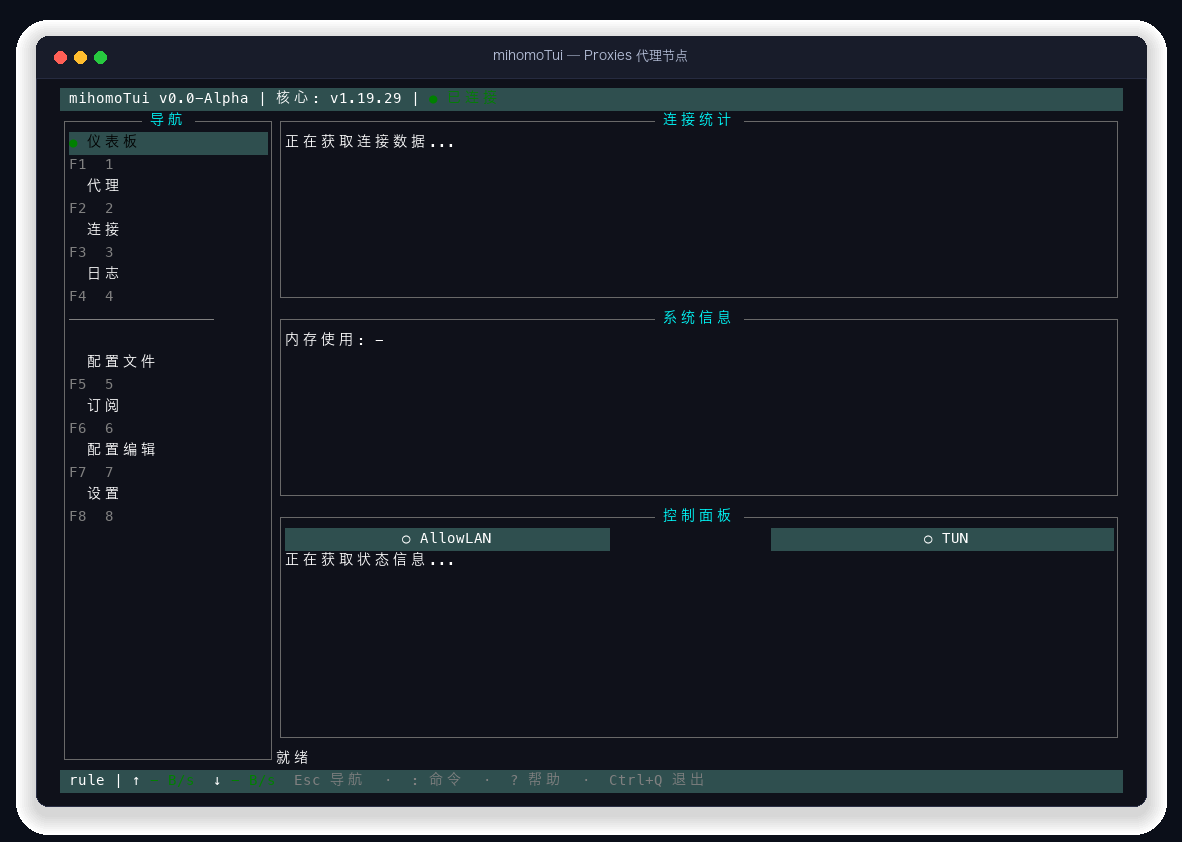
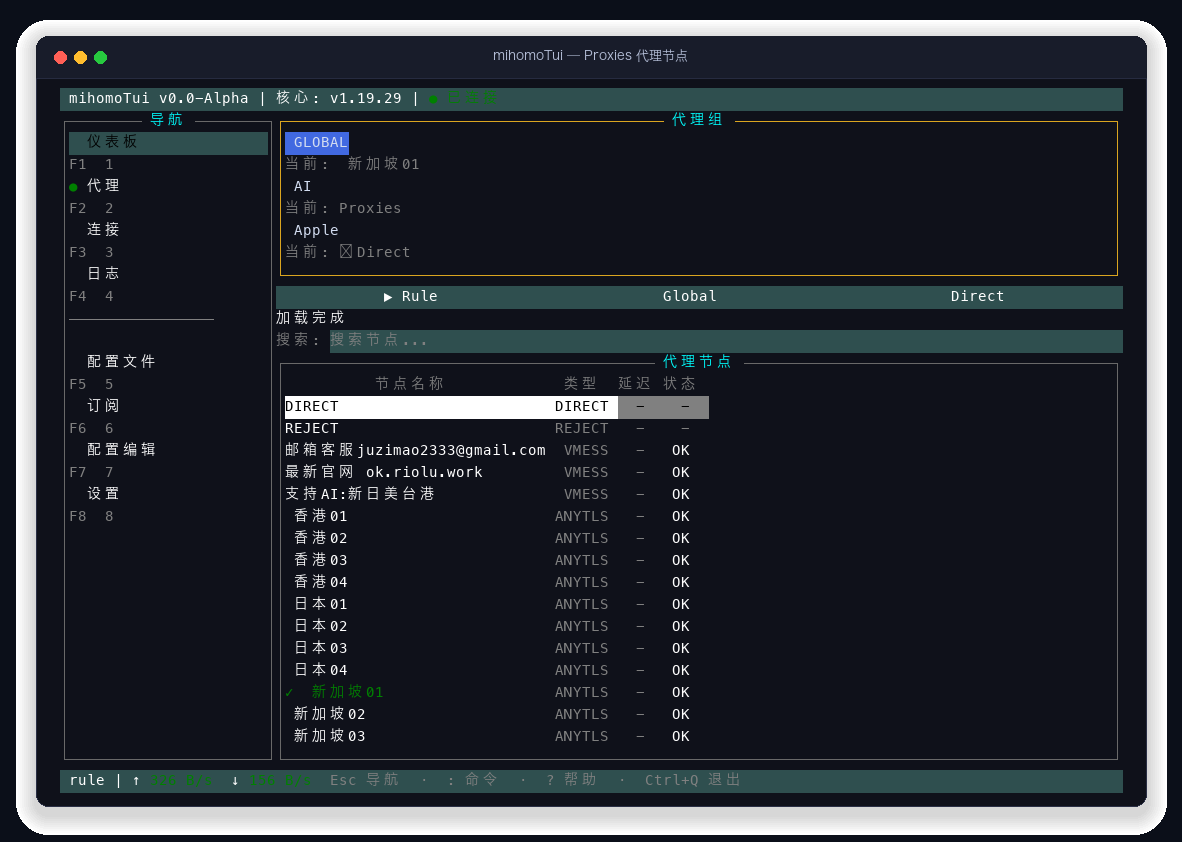
docs: update accurate high-DPI screenshots for all distinct pages and modals
- Re-generate 12 distinct terminal screenshot renders with correct subtab and modal states
- Update static hero banner and high-resolution picture assets
- Export SwitchTab helper in EditorPage for deterministic subtab testing

diff --git a/internal/screenshot_test.go b/internal/screenshot_test.go
@@ -76,7 +76,7 @@ func captureScreen(simScreen tcell.SimulationScreen, name, title string) ScreenE
 	}
 }
 
-func TestGenerateScreenshots(t *testing.T) {
+func TestGenerateScreenshotsV3(t *testing.T) {
 	if os.Getenv("GEN_SCREENSHOTS") != "1" {
 		t.Skip("Skipping screenshot generation unless GEN_SCREENSHOTS=1")
 	}
@@ -86,119 +86,87 @@ func TestGenerateScreenshots(t *testing.T) {
 
 	api.InitClient(srv.URL, "")
 
-	simScreen := tcell.NewSimulationScreen("UTF-8")
-	if err := simScreen.Init(); err != nil {
-		t.Fatalf("failed to init simScreen: %v", err)
-	}
-
-	appInstance := NewApp("mihomoTui", "v0.0-Alpha")
-	appInstance.app.SetScreen(simScreen)
-
-	if err := appInstance.Initialize(); err != nil {
-		t.Fatalf("Init error: %v", err)
-	}
-
-	// Lock size to 118x32
-	simScreen.SetSize(118, 32)
-
-	go appInstance.Run()
-	defer appInstance.Stop()
-
-	time.Sleep(300 * time.Millisecond)
-
 	outDir := "/tmp/mihomo_screens"
 	_ = os.MkdirAll(outDir, 0755)
 
-	savePage := func(filename, title string) {
-		time.Sleep(300 * time.Millisecond)
+	targetW, targetH := 118, 32
+
+	pagesToCapture := []struct {
+		id       string
+		title    string
+		pageIdx  int
+		subtab   int
+		modalKey rune
+		waitMs   int
+	}{
+		{id: "01-dashboard", title: "Dashboard 仪表盘", pageIdx: 0, waitMs: 800},
+		{id: "02-proxies", title: "Proxies 代理节点", pageIdx: 1, waitMs: 800},
+		{id: "03-connections", title: "Connections 活跃连接", pageIdx: 2, waitMs: 600},
+		{id: "04-logs", title: "Logs 实时日志", pageIdx: 3, waitMs: 600},
+		{id: "05-profiles", title: "Profiles 配置文件管理", pageIdx: 5, waitMs: 600},
+		{id: "06-subscriptions", title: "Subscriptions 订阅管理", pageIdx: 6, waitMs: 600},
+		{id: "07-editor-groups", title: "Proxy Groups 代理组配置", pageIdx: 7, subtab: 0, waitMs: 600},
+		{id: "08-editor-rules", title: "Rules 路由规则管理", pageIdx: 7, subtab: 1, waitMs: 600},
+		{id: "09-editor-providers", title: "Rule Providers 规则提供者", pageIdx: 7, subtab: 2, waitMs: 600},
+		{id: "10-settings", title: "Settings 系统与API设置", pageIdx: 8, waitMs: 600},
+		{id: "11-palette", title: "Command Palette 命令面板", pageIdx: 0, modalKey: ':', waitMs: 500},
+		{id: "12-help", title: "Help 帮助与快捷键", pageIdx: 0, modalKey: '?', waitMs: 500},
+	}
+
+	for _, item := range pagesToCapture {
+		simScreen := tcell.NewSimulationScreen("UTF-8")
+		_ = simScreen.Init()
+		simScreen.SetSize(targetW, targetH)
+
+		appInstance := NewApp("mihomoTui", "v0.0-Alpha")
+		appInstance.app.SetScreen(simScreen)
+		if err := appInstance.Initialize(); err != nil {
+			t.Fatalf("Init error: %v", err)
+		}
+
+		go appInstance.Run()
+
+		time.Sleep(200 * time.Millisecond)
+
+		// Resize event
+		simScreen.SetSize(targetW, targetH)
+		appInstance.app.QueueEvent(tcell.NewEventResize(targetW, targetH))
+		time.Sleep(200 * time.Millisecond)
+
+		done := make(chan bool)
 		ui.Updater.PostUi(func() {
-			simScreen.SetSize(118, 32)
+			if item.pageIdx != 0 {
+				appInstance.switchPage(item.pageIdx)
+			}
+			if item.pageIdx == 7 {
+				if ed, ok := appInstance.pageLifecycle["editor"].(*pages.EditorPage); ok {
+					ed.SwitchTab(item.subtab)
+				}
+			}
+			if item.modalKey != 0 {
+				appInstance.handleGlobalKeys(tcell.NewEventKey(tcell.KeyRune, item.modalKey, tcell.ModNone))
+			}
+			done <- true
+		})
+		<-done
+
+		waitTime := 400 * time.Millisecond
+		if item.waitMs > 0 {
+			waitTime = time.Duration(item.waitMs) * time.Millisecond
+		}
+		time.Sleep(waitTime)
+
+		// Force redraw
+		ui.Updater.PostUi(func() {
 			appInstance.app.Draw()
 		})
 		time.Sleep(200 * time.Millisecond)
-		exp := captureScreen(simScreen, filename, title)
+
+		exp := captureScreen(simScreen, item.id, item.title)
 		b, _ := json.MarshalIndent(exp, "", "  ")
-		_ = os.WriteFile(filepath.Join(outDir, filename+".json"), b, 0644)
-		t.Logf("Saved %s (%s) [%dx%d]", filename, title, exp.Width, exp.Height)
+		_ = os.WriteFile(filepath.Join(outDir, item.id+".json"), b, 0644)
+
+		appInstance.Stop()
+		time.Sleep(100 * time.Millisecond)
 	}
-
-	// 1. Dashboard (F1)
-	ui.Updater.PostUi(func() {
-		appInstance.switchPage(0)
-	})
-	savePage("01-dashboard", "Dashboard 仪表盘")
-
-	// 2. Proxies (F2)
-	ui.Updater.PostUi(func() {
-		appInstance.switchPage(1)
-	})
-	savePage("02-proxies", "Proxies 代理节点")
-
-	// 3. Connections (F3)
-	ui.Updater.PostUi(func() {
-		appInstance.switchPage(2)
-	})
-	savePage("03-connections", "Connections 活跃连接")
-
-	// 4. Logs (F4)
-	ui.Updater.PostUi(func() {
-		appInstance.switchPage(3)
-	})
-	savePage("04-logs", "Logs 实时日志")
-
-	// 5. ConfigMgr / Profiles (F5)
-	ui.Updater.PostUi(func() {
-		appInstance.switchPage(5)
-	})
-	savePage("05-profiles", "Profiles 配置文件管理")
-
-	// 6. Subscriptions (F6)
-	ui.Updater.PostUi(func() {
-		appInstance.switchPage(6)
-	})
-	savePage("06-subscriptions", "Subscriptions 订阅管理")
-
-	// 7. Editor - Proxy Groups (F7 subtab 0)
-	ui.Updater.PostUi(func() {
-		appInstance.switchPage(7)
-	})
-	savePage("07-editor-groups", "Proxy Groups 代理组配置")
-
-	// 8. Editor - Rules (F7 subtab 1)
-	ui.Updater.PostUi(func() {
-		appInstance.switchPage(7)
-		if ed, ok := appInstance.pageLifecycle["editor"].(*pages.EditorPage); ok {
-			_ = ed
-		}
-		appInstance.handleGlobalKeys(tcell.NewEventKey(tcell.KeyTab, 0, tcell.ModNone))
-	})
-	savePage("08-editor-rules", "Rules 路由规则管理")
-
-	// 9. Editor - Rule Providers (F7 subtab 2)
-	ui.Updater.PostUi(func() {
-		appInstance.handleGlobalKeys(tcell.NewEventKey(tcell.KeyTab, 0, tcell.ModNone))
-	})
-	savePage("09-editor-providers", "Rule Providers 规则提供者")
-
-	// 10. Settings (F8)
-	ui.Updater.PostUi(func() {
-		appInstance.switchPage(8)
-	})
-	savePage("10-settings", "Settings 系统与API设置")
-
-	// 11. Command Palette (:)
-	ui.Updater.PostUi(func() {
-		appInstance.switchPage(0)
-		appInstance.handleGlobalKeys(tcell.NewEventKey(tcell.KeyRune, ':', tcell.ModNone))
-	})
-	savePage("11-palette", "Command Palette 命令面板")
-	ui.Updater.PostUi(func() {
-		appInstance.handleGlobalKeys(tcell.NewEventKey(tcell.KeyEscape, 0, tcell.ModNone))
-	})
-
-	// 12. Help Modal (?)
-	ui.Updater.PostUi(func() {
-		appInstance.handleGlobalKeys(tcell.NewEventKey(tcell.KeyRune, '?', tcell.ModNone))
-	})
-	savePage("12-help", "Help 帮助与快捷键")
 }

diff --git a/internal/ui/pages/editor.go b/internal/ui/pages/editor.go
@@ -98,6 +98,11 @@ func (e *EditorPage) setupUI() {
 	})
 }
 
+// SwitchTab switches to a specific subtab (0: proxygroups, 1: rules, 2: ruleproviders)
+func (e *EditorPage) SwitchTab(index int) {
+	e.switchTab(index)
+}
+
 func (e *EditorPage) switchTab(index int) {
 	if index < 0 || index >= len(e.tabs) {
 		return
